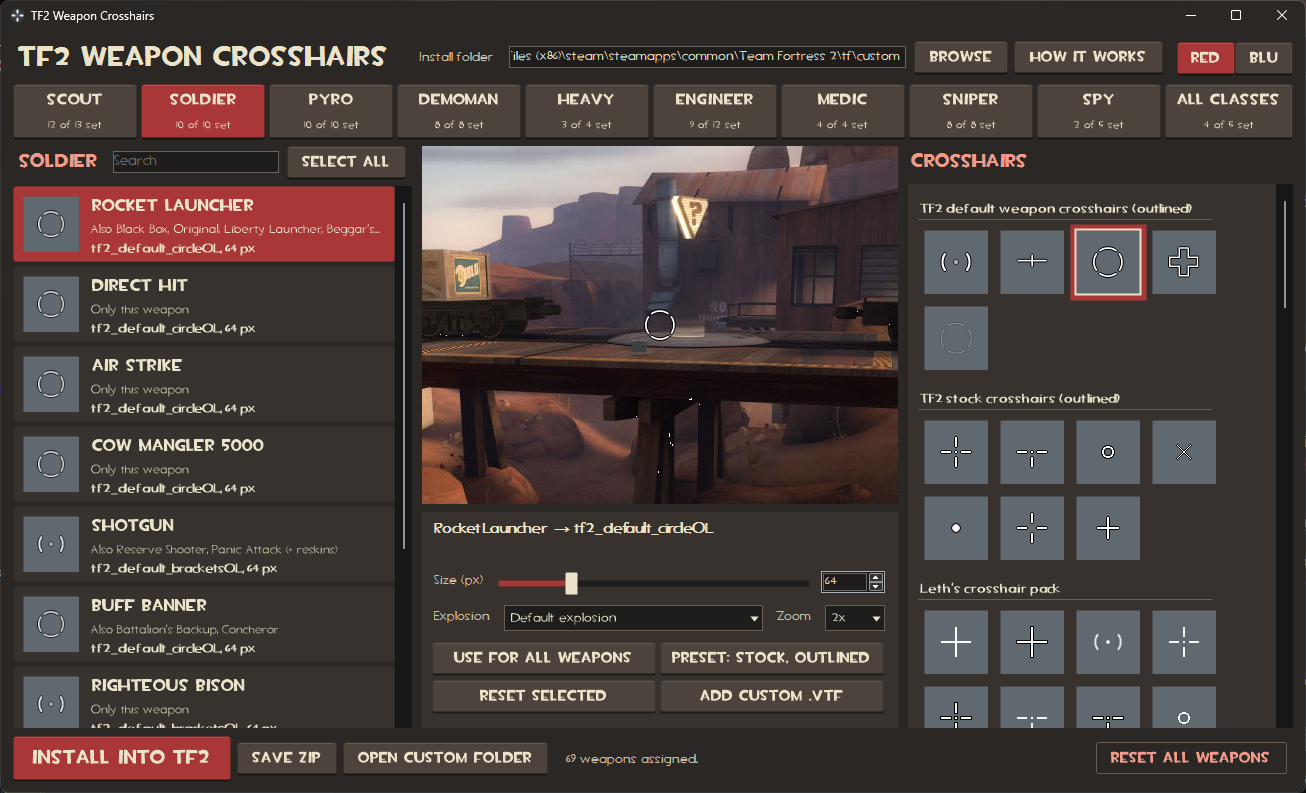
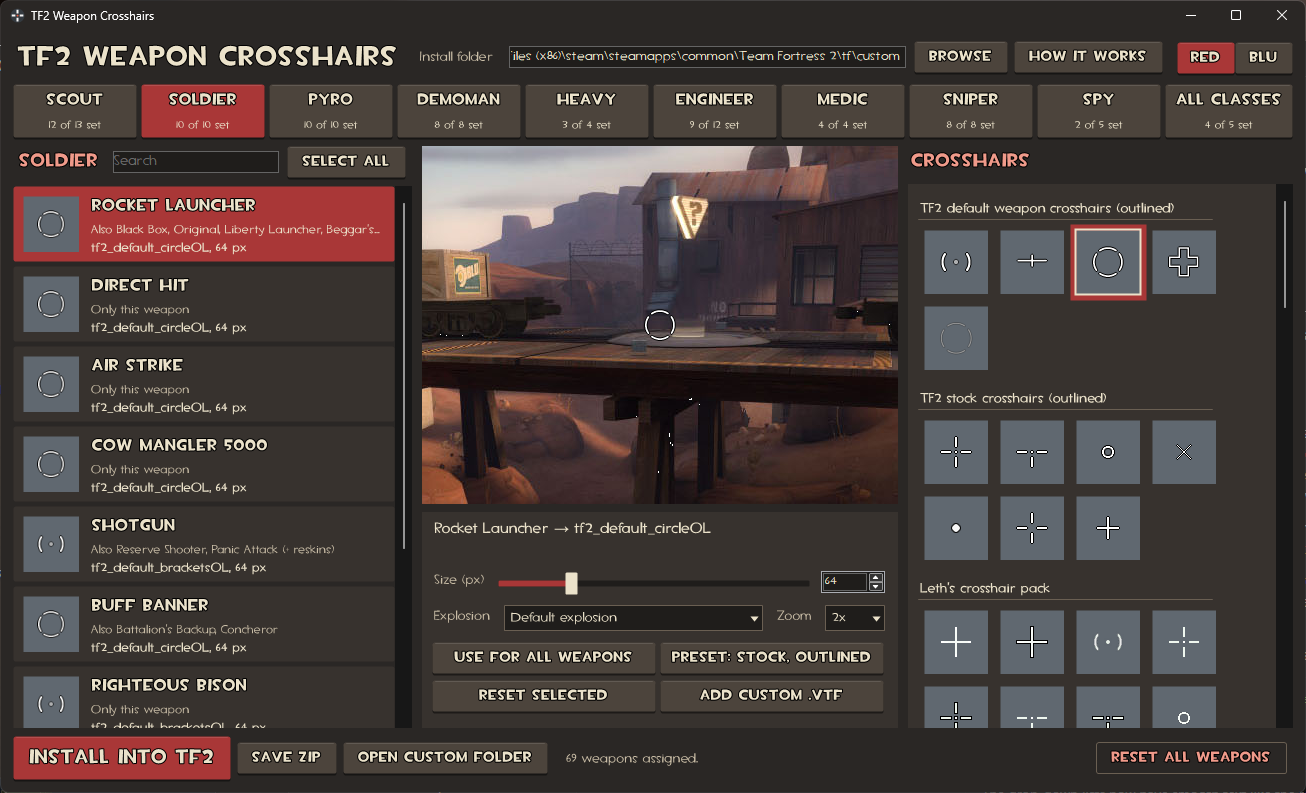
Smooth the app's text and outline TF2 Build
GDI+ text rendering leaves the TF2 fonts jagged at small sizes in every
mode, so app-drawn text is now filled as anti-aliased vector shapes.
That covers the labels, the buttons, the weapon cards, the gallery and
the drop-down lists.

TF2 Build text also sits on a 1px black outline.

diff --git a/src/TF2Crosshairs/TfControls.cs b/src/TF2Crosshairs/TfControls.cs
@@ -9,20 +9,37 @@ namespace TF2Crosshairs
     /// <summary>Text and shape helpers shared by the hand-painted controls.</summary>
     static class TfDraw
     {
+        const float OutlinePixels = 1f;
+
         public static void Prepare(Graphics g)
         {
             g.SmoothingMode = SmoothingMode.AntiAlias;
-            g.TextRenderingHint = TextRenderingHint.AntiAliasGridFit;
+            g.TextRenderingHint = TextRenderingHint.AntiAlias;
         }
 
-        public static void Text(Graphics g, string text, Font font, Color color, RectangleF r, StringAlignment align = StringAlignment.Near)
+        /// <summary>
+        /// Fills the letters as vector shapes, because GDI+ text rendering leaves the TF2 fonts jagged at small sizes
+        /// in every mode. Outlined text, which is TF2 Build, sits on a 1px black edge.
+        /// </summary>
+        public static void Text(Graphics g, string text, Font font, Color color, RectangleF r, StringAlignment align = StringAlignment.Near,
+            bool wrap = false, StringAlignment lines = StringAlignment.Center, bool outlined = false)
         {
-            using var brush = new SolidBrush(color);
-            using var format = new StringFormat(StringFormatFlags.NoWrap)
+            using var format = new StringFormat(wrap ? StringFormatFlags.LineLimit : StringFormatFlags.NoWrap)
             {
-                Alignment = align, LineAlignment = StringAlignment.Center, Trimming = StringTrimming.EllipsisCharacter, HotkeyPrefix = HotkeyPrefix.None,
+                Alignment = align, LineAlignment = lines, Trimming = StringTrimming.EllipsisCharacter, HotkeyPrefix = HotkeyPrefix.None,
             };
-            g.DrawString(text, font, brush, r, format);
+            using var path = new GraphicsPath();
+            path.AddString(text, font.FontFamily, (int)font.Style, font.SizeInPoints * g.DpiY / 72f, r, format);
+            var offset = g.PixelOffsetMode;
+            g.PixelOffsetMode = PixelOffsetMode.HighQuality;
+            if (outlined)
+            {
+                // a pen straddles the edge and the fill covers its inner half, so twice the width shows outside the letters
+                using var pen = new Pen(Color.Black, 2 * OutlinePixels * g.DpiY / 96f) { LineJoin = LineJoin.Round };
+                g.DrawPath(pen, path);
+            }
+            using (var brush = new SolidBrush(color)) g.FillPath(brush, path);
+            g.PixelOffsetMode = offset;
         }
     }
 
@@ -31,7 +48,7 @@ namespace TF2Crosshairs
 
     enum TfTextRole { Normal, Muted, Accent }
 
-    /// <summary>Label in a TF2 font. Compatible text rendering is GDI+, which is what those fonts need.</summary>
+    /// <summary>Label in a TF2 font, drawn through TfDraw. Compatible text rendering keeps its measuring in GDI+ as well.</summary>
     sealed class TfLabel : Label
     {
         public bool IsHeading;
@@ -45,6 +62,14 @@ namespace TF2Crosshairs
         }
 
         public void ApplyFont() => Font = IsHeading ? Tf2Fonts.Heading(Points) : Tf2Fonts.Body(Points, TextStyle);
+
+        protected override void OnPaint(PaintEventArgs e)
+        {
+            TfDraw.Prepare(e.Graphics);
+            var area = new RectangleF(Padding.Left, Padding.Top, Width - Padding.Horizontal, Height - Padding.Vertical);
+            bool middle = TextAlign is ContentAlignment.MiddleLeft or ContentAlignment.MiddleCenter or ContentAlignment.MiddleRight;
+            TfDraw.Text(e.Graphics, Text, Font, ForeColor, area, wrap: true, lines: middle ? StringAlignment.Center : StringAlignment.Near, outlined: IsHeading);
+        }
     }
 
     enum TfButtonKind { Normal, Primary, Danger }
@@ -146,12 +171,12 @@ namespace TF2Crosshairs
             if (SubText is { } sub)
             {
                 float mid = face.Y + face.Height * 0.60f;
-                TfDraw.Text(g, label, Fitted(g, label), text, new RectangleF(0, face.Y, Width, mid - face.Y), StringAlignment.Center);
+                TfDraw.Text(g, label, Fitted(g, label), text, new RectangleF(0, face.Y, Width, mid - face.Y), StringAlignment.Center, outlined: true);
                 TfDraw.Text(g, sub, Tf2Fonts.Body(8.5f), p.Fore, new RectangleF(0, mid - 1, Width, face.Bottom - mid), StringAlignment.Center);
             }
             else
             {
-                TfDraw.Text(g, label, Fitted(g, label), text, face, StringAlignment.Center);
+                TfDraw.Text(g, label, Fitted(g, label), text, face, StringAlignment.Center, outlined: true);
             }
 
             if (Focused && ShowFocusCues)
@@ -183,6 +208,7 @@ namespace TF2Crosshairs
             var p = Theme.Current;
             using var fill = new SolidBrush((e.State & DrawItemState.Selected) != 0 ? p.Accent : p.Input);
             e.Graphics.FillRectangle(fill, e.Bounds);
+            TfDraw.Prepare(e.Graphics);
             TfDraw.Text(e.Graphics, GetItemText(Items[e.Index]) ?? "", Font, p.Fore, TextArea(e.Bounds));
         }
 

diff --git a/src/TF2Crosshairs/WeaponCards.cs b/src/TF2Crosshairs/WeaponCards.cs
@@ -223,7 +223,7 @@ namespace TF2Crosshairs
 
                 float x = thumb.Right + inset, w = b.Right - inset - x;
                 float titleH = b.Height * 0.40f, lineH = b.Height * 0.24f, y = b.Y + b.Height * 0.06f;
-                TfDraw.Text(g, card.Title.ToUpperInvariant(), Tf2Fonts.Heading(12.5f), p.Fore, new RectangleF(x, y, w, titleH));
+                TfDraw.Text(g, card.Title.ToUpperInvariant(), Tf2Fonts.Heading(12.5f), p.Fore, new RectangleF(x, y, w, titleH), outlined: true);
                 TfDraw.Text(g, card.Also, Tf2Fonts.Body(9f), on ? p.Fore : p.Muted, new RectangleF(x, y + titleH, w, lineH));
                 TfDraw.Text(g, card.Info, Tf2Fonts.Body(9.5f, FontStyle.Bold), card.Thumb != null || on ? p.Fore : p.Muted, new RectangleF(x, y + titleH + lineH, w, lineH));
             }
